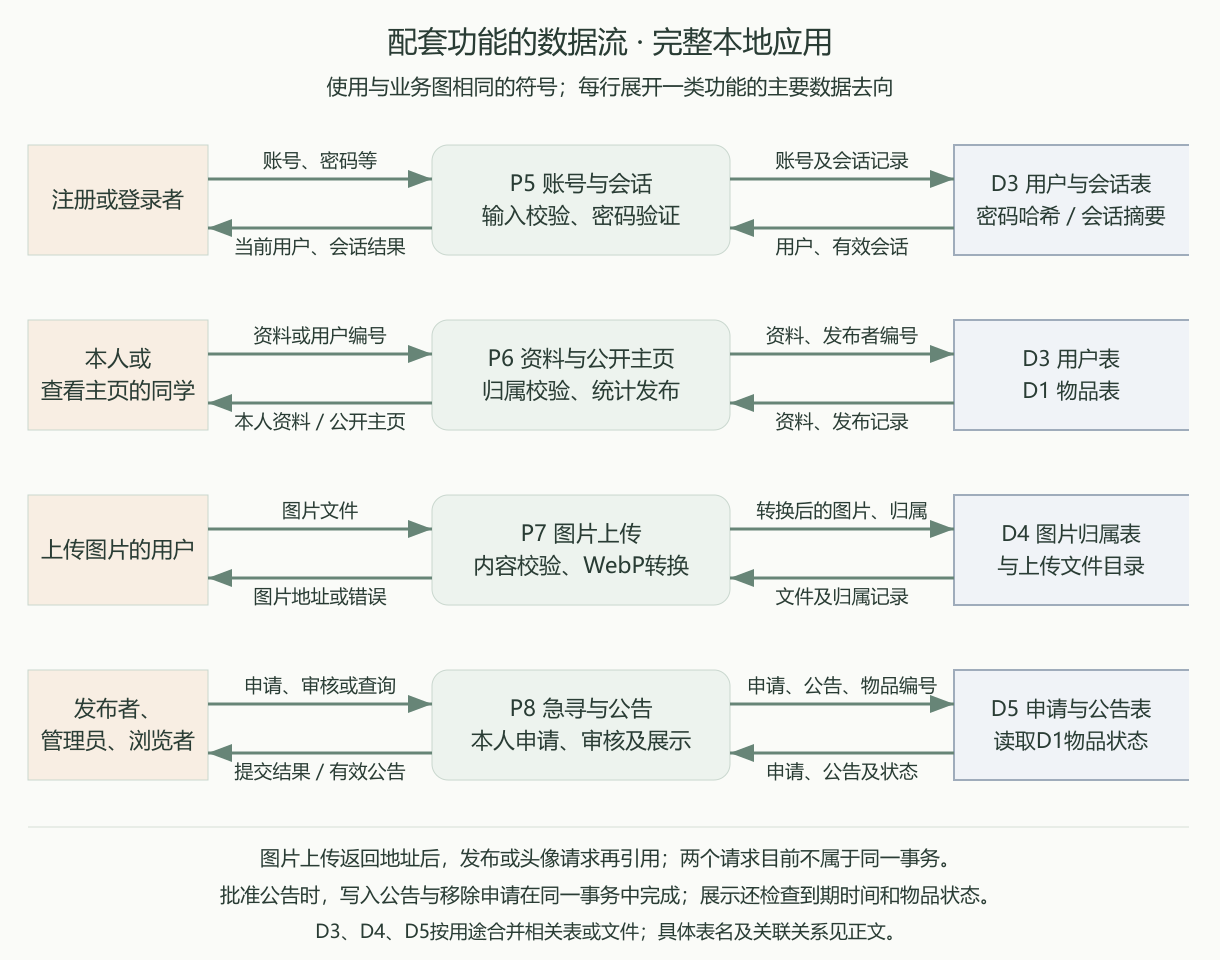
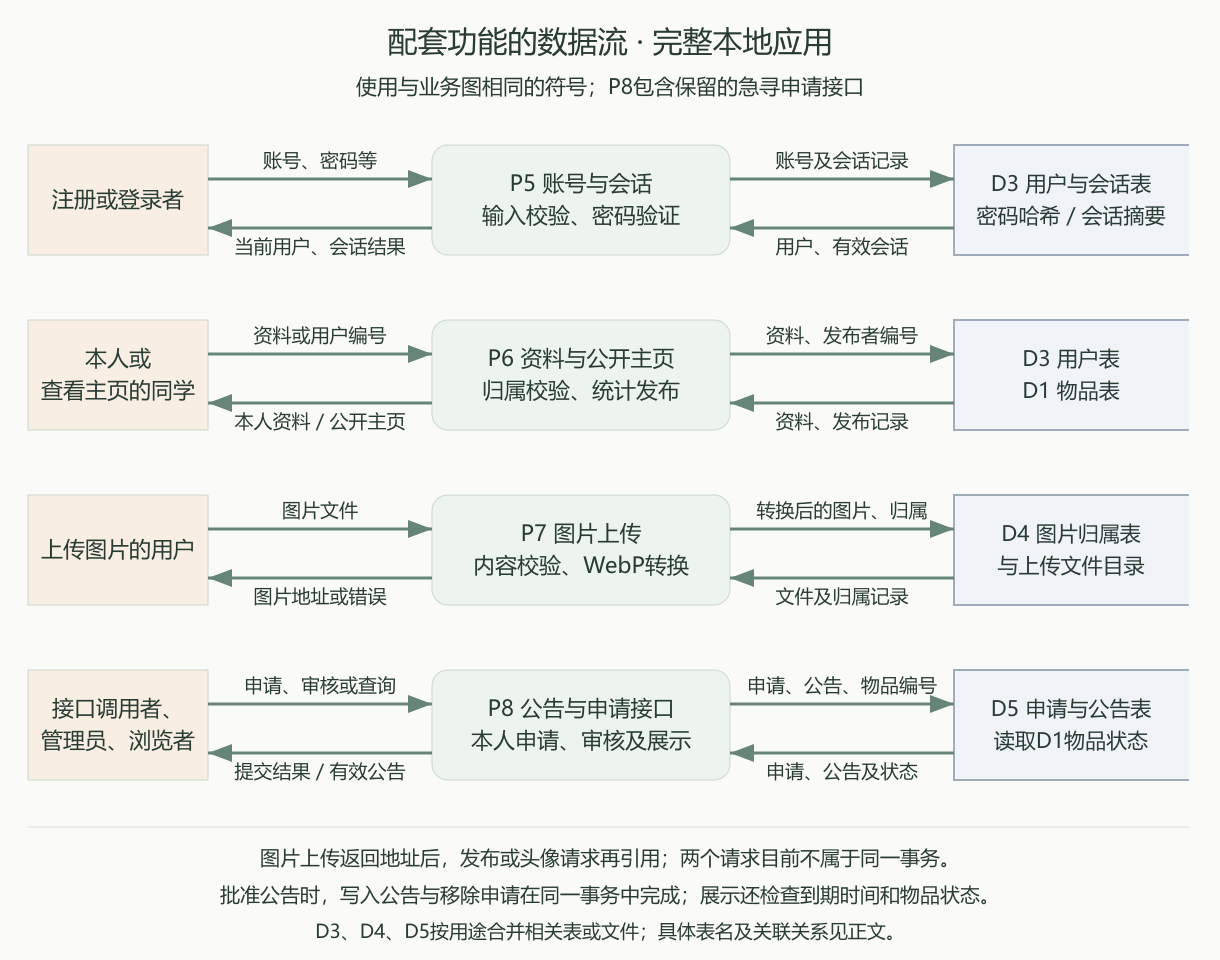
fix: show sample team contact for urgent notices

Changed region(s): [[0.2492, 0.0625, 0.7475, 0.125], [0.4049, 0.7188, 0.5607, 0.75], [0.0311, 0.7188, 0.1246, 0.75]]

diff --git a/js/views.js b/js/views.js
@@ -130,11 +130,7 @@
   function adminPanel(state) {
     return `<div class="page-back"><a href="#settings">${icon('back')}返回设置</a></div><section class="settings-page"><h1>公告与内容管理</h1><form id="notice-form" class="security-form"><label>寻物信息<select name="itemId" required>${state.items.filter(item => item.type === 'lost' && item.status === 'open').map(item => `<option value="${esc(item.id)}">${esc(item.name)} · ${esc(item.ownerName)}</option>`).join('')}</select></label><label>酬谢金额<input name="reward" type="number" value="0" min="0" max="100000" required></label><label>到期时间<input name="expiresAt" type="datetime-local" required></label><button class="button button-primary">加入公告</button></form><h2>待审核申请</h2>${(state.urgentRequests || []).map(item => `<div class="settings-row"><span>${esc(item.name)} · ${esc(item.ownerName)}<small>酬谢 ¥${item.reward}</small></span><div><button class="text-button" data-action="review-urgent" data-id="${esc(item.id)}" data-value="${item.reward}">填入公告</button><button class="settings-danger" data-action="dismiss-urgent" data-id="${esc(item.id)}">驳回</button></div></div>`).join('')}<h2>当前公告</h2>${state.notices.map(item => `<div class="settings-row"><span>${esc(item.name)}</span><button class="text-button" data-action="remove-notice" data-id="${esc(item.id)}">撤下</button></div>`).join('')}<h2>发布内容</h2>${state.items.map(item => `<div class="settings-row"><a href="#detail/${encodeURIComponent(item.id)}">${esc(item.name)} · ${esc(item.ownerName)}</a><button class="settings-danger" data-action="admin-delete" data-id="${esc(item.id)}">删除</button></div>`).join('')}</section>`;
   }
-  function urgentContact(state) {
-    if (state?.remote) {
-      const posts = state.items.filter(item => item.ownerId === state.user?.id && item.type === 'lost' && item.status === 'open');
-      return `<div class="confirm-dialog"><button class="modal-close" data-action="close-modal" aria-label="关闭弹窗">${icon('close')}</button><h2 id="modal-title">申请紧急寻物公告</h2><p id="modal-description">提交给校园失物招领运营团队，由管理员审核后加入首页公告。</p>${state.user && posts.length ? `<form id="urgent-request-form" class="security-form"><label>我的寻物信息<select name="itemId" required>${posts.map(item => `<option value="${esc(item.id)}">${esc(item.name)}</option>`).join('')}</select></label><label>寻回酬谢<input name="reward" type="number" min="0" max="100000" value="0" required></label><button class="button button-primary" type="submit">提交申请</button></form>` : `<div class="dialog-actions"><a class="button button-primary" href="#${state.user ? 'publish' : 'login'}" data-action="close-modal">${state.user ? '先发布寻物信息' : '登录后申请'}</a></div>`}</div>`;
-    }
+  function urgentContact() {
     return `<div class="confirm-dialog contact-dialog"><button class="modal-close" data-action="close-modal" aria-label="关闭弹窗">${icon('close')}</button><span class="confirm-symbol">${icon('leaf')}</span><h2 id="modal-title">发布紧急寻物</h2><p id="modal-description">联系运营团队，将寻物信息加入首页公告。</p><div class="team-contact"><span>联系团队</span><strong>校园失物招领运营团队</strong><p>微信：<b>campus_demo</b></p></div><div class="contact-checklist"><strong>请提供这些信息</strong><p>物品名称 · 丢失时间 · 丢失地点 · 联系方式</p><small>酬谢金额可选填</small></div><div class="dialog-actions"><button class="button button-secondary" data-action="close-modal" autofocus>知道了</button><a class="button button-primary" href="#publish" data-action="close-modal">发布寻物信息</a></div></div>`;
   }
   function confirmation(title, text, action, id, danger = false) {

diff --git a/js/app.js b/js/app.js
@@ -297,8 +297,6 @@
         await refreshRemote(); toast('个人资料已更新');
       } else if (form.id === 'password-form') {
         requireLogin(); await API.request('POST', '/auth/password', values); form.reset(); toast('密码已修改，其他设备已退出登录');
-      } else if (form.id === 'urgent-request-form') {
-        requireLogin(); await API.request('POST', `/urgent-requests/${encodeURIComponent(values.itemId)}`, { reward: Number(values.reward) }); closeModal(); toast('申请已提交给运营团队');
       } else {
         await API.request('PUT', `/admin/notices/${encodeURIComponent(values.itemId)}`, { reward: Number(values.reward), expiresAt: new Date(values.expiresAt).toISOString() }); await refreshRemote(); toast('公告已发布');
       }
@@ -415,7 +413,6 @@
     if (animation) animation.finished.then(finish, () => {}); else finish();
     button.focus({ preventScroll: true });
   }
-  modal.addEventListener('submit', event => { if (backend && event.target.id === 'urgent-request-form') { event.preventDefault(); void submitAccountForm(event.target); } });
   modal.addEventListener('cancel', event => { event.preventDefault(); closeModal(); });
   modal.addEventListener('close', () => {
     document.body.classList.remove('modal-open');
@@ -534,7 +531,7 @@
             filters.sort = trigger.dataset.value; if (filterDraft) filterDraft.sort = trigger.dataset.value;
           }
           document.querySelector(`[data-action="preference-sort"][data-value="${trigger.dataset.value}"]`)?.focus(); break;
-        case 'urgent-contact': openModal(V.urgentContact(state)); break;
+        case 'urgent-contact': openModal(V.urgentContact()); break;
         case 'notice-page': moveNotice(Number(trigger.dataset.value)); break;
         case 'notice-prev': moveNotice(noticeIndex() - 1); break;
         case 'notice-next': moveNotice(noticeIndex() + 1); break;

diff --git a/docs/2026-10-07-implementation-blog.md b/docs/2026-10-07-implementation-blog.md
@@ -116,7 +116,7 @@
 | --- | --- | --- |
 | 失物招领 | 发布、查找、详情、联系方式、编辑、完成、取消完成和删除 | 双方在应用外联系，由发布者确认找回或归还 |
 | 用户与数据 | 注册登录、恢复码找回、资料修改、多账号权限、SQLite和图片保存 | 普通账号不等于学校身份认证 |
-| 收藏与公告 | 个人收藏、急寻申请、管理员审核、到期及完成后停止展示 | 需要管理员实际审核，预置内容用于演示流程 |
+| 收藏与公告 | 个人收藏、团队联系弹窗、管理员维护公告、到期及完成后停止展示 | 联系入口展示团队示例微信；急寻申请接口保留，网页暂不开放提交 |
 | 交付与验证 | 静态HTML入口、本地后端入口、自动测试、管理员和手动备份脚本 | 没有公网部署，没有进行长期运营和大规模并发验证 |
 
 因此，当前版本可以作为可用的本地MVP交付。持续面向全校运行还需要真实使用反馈、更多数据量下的查询验证，以及备份恢复和旧图片清理等运行维护工作。当前首页从接口读取物品集合后在前端筛选，后端虽有分页查询接口，网页尚未接入分页；这一点在数据量增加后需要继续调整。
@@ -175,7 +175,7 @@
 
 图片先经过内容解码、大小检查和WebP转换，再保存文件及归属记录，返回地址供发布或头像引用。图片上传与物品发布是两次请求，尚未做成一个事务：上传成功后如果发布失败，图片可能保留在目录中，旧图也暂时保留。这是后续需要增加清理机制的地方。
 
-急寻申请与正式公告分开保存。用户只能为本人进行中的寻物申请，管理员审核后写入公告并移除申请，批准这两步放在同一事务内。首页读取未到期且仍在寻找中的公告；完成或删除后停止展示。管理员可以撤下公告、驳回申请或删除内容。
+“联系我们发布紧急”统一展示团队示例微信`campus_demo`，网页没有申请提交表单。后端保留急寻申请及审核接口，图中P8包含这部分接口能力：申请与正式公告分开保存，只允许为本人进行中的寻物申请；管理员批准时写入公告并移除申请，两步放在同一事务内。管理员也可直接维护公告。首页读取未到期且仍在寻找中的公告，完成或删除后停止展示。
 
 #### 数据之间怎样关联
 
@@ -262,9 +262,9 @@ return getItem(old.id, user);
 
 公告放在顶部栏下方，进入首页就能看到。每条突出物品名称、丢失时间、丢失地点和酬谢金额，配图帮助辨认，详细描述放到对应详情里。公告控制高度，给下面的搜索和物品列表留下空间。
 
-公告支持左右滑动，也能用箭头或圆点切换，显示当前位置。三条预置公告都能打开对应详情，不只是展示一块文字。“联系我们发布紧急”提供后续入口：完整本地应用中，用户可以选择本人尚未完成的寻物信息、填写酬谢并提交给管理员审核；直接打开HTML时展示团队联系信息。当前公告与联系方式用于演示，尚未作为真实校园服务运营。
+公告支持左右滑动，也能用箭头或圆点切换，显示当前位置。三条预置公告都能打开对应详情，不只是展示一块文字。“联系我们发布紧急”在两种运行方式中都打开团队联系弹窗，展示校园失物招领运营团队和示例微信`campus_demo`，并列出物品名称、丢失时间、地点和联系方式等需要提供的内容。
 
-申请提交以后先保存为待审核记录，由管理员决定是否发布，并设置到期时间。首页只读取未到期、仍在寻找中的公告。公告关联原发布，点击后打开同一条详情，减少公告和普通列表内容对不上的情况。
+管理员可以选择进行中的寻物信息加入公告，并设置酬谢和到期时间。首页只读取未到期、仍在寻找中的公告。公告关联原发布，点击后打开同一条详情，减少公告和普通列表内容对不上的情况。急寻申请接口保留供后续接入，当前网页使用团队联系入口。
 
 #### 3. 颜色提示
 

diff --git a/docs/local-backend.md b/docs/local-backend.md
@@ -77,7 +77,7 @@
 
 ## 管理员
 
-先在网页注册账号，再在项目终端执行 `npm.cmd run admin -- 账号`。重新登录，设置中进入“公告与内容管理”。普通用户无法通过网页或 API 提升权限。公告只可关联进行中的寻物帖，有到期时间，完成的帖子自动停止展示公告。用户从“联系我们发布紧急”选择自己的寻物帖提交申请；管理员审核队列仅管理员可见，批准公告后申请移出队列，也可以驳回。
+先在网页注册账号，再在项目终端执行 `npm.cmd run admin -- 账号`。重新登录，设置中进入“公告与内容管理”。普通用户无法通过网页或 API 提升权限。公告只可关联进行中的寻物帖，有到期时间，完成的帖子自动停止展示公告。“联系我们发布紧急”统一显示运营团队示例微信 `campus_demo`，网页不提供申请表单。急寻申请接口仍保留供后续接入；通过接口产生的申请仅管理员可见，批准公告后申请移出队列，也可以驳回。管理员也可直接选取寻物信息维护公告。
 
 ## 备份与恢复
 
